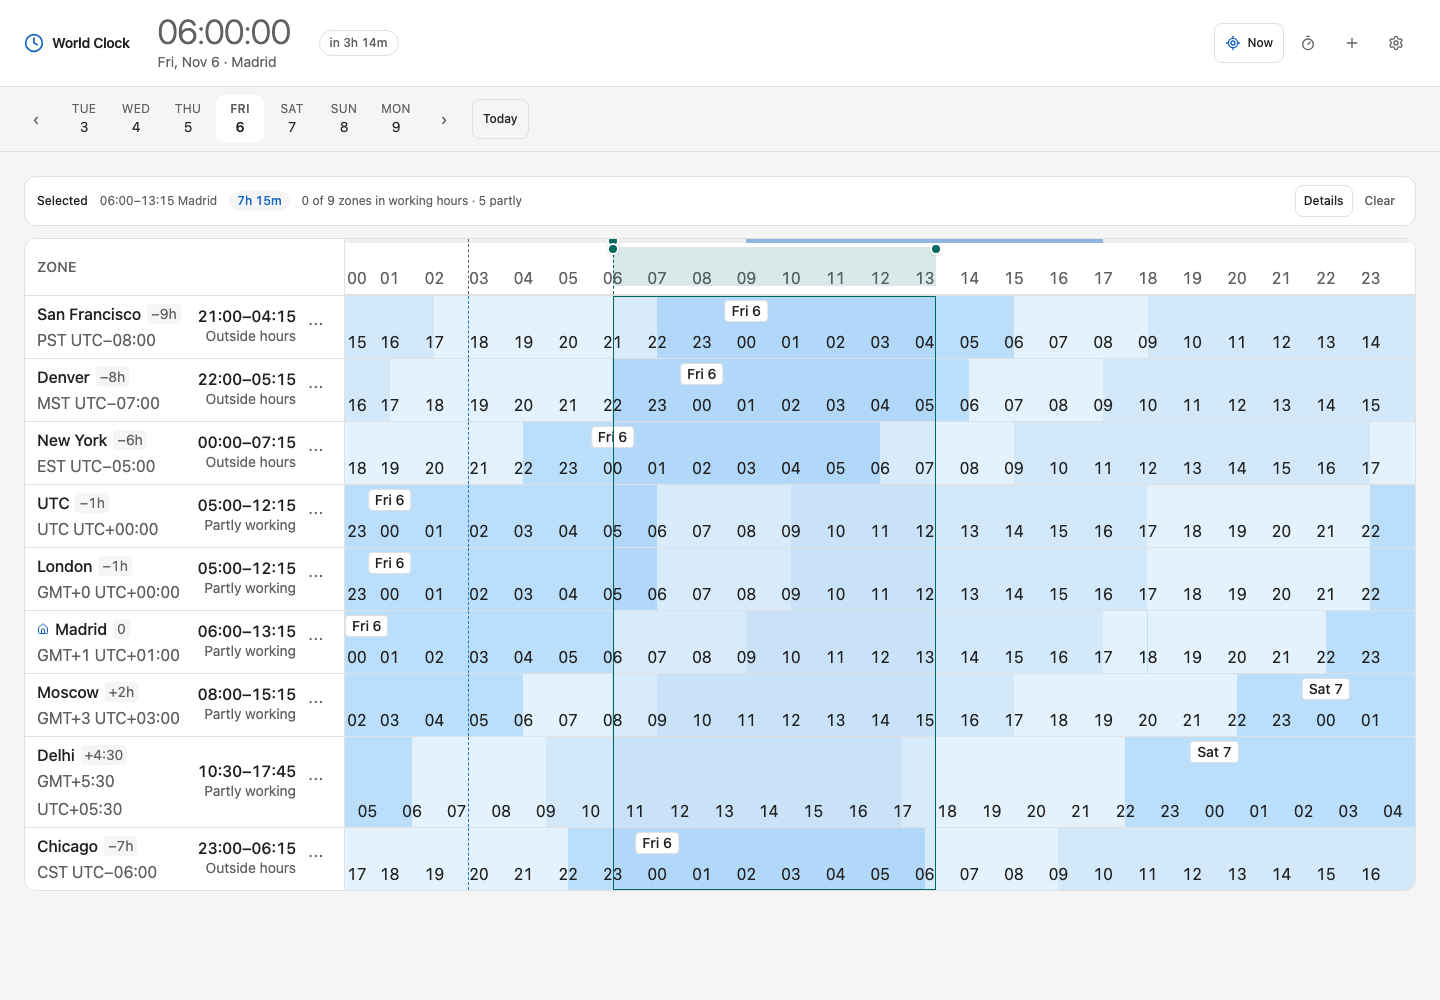
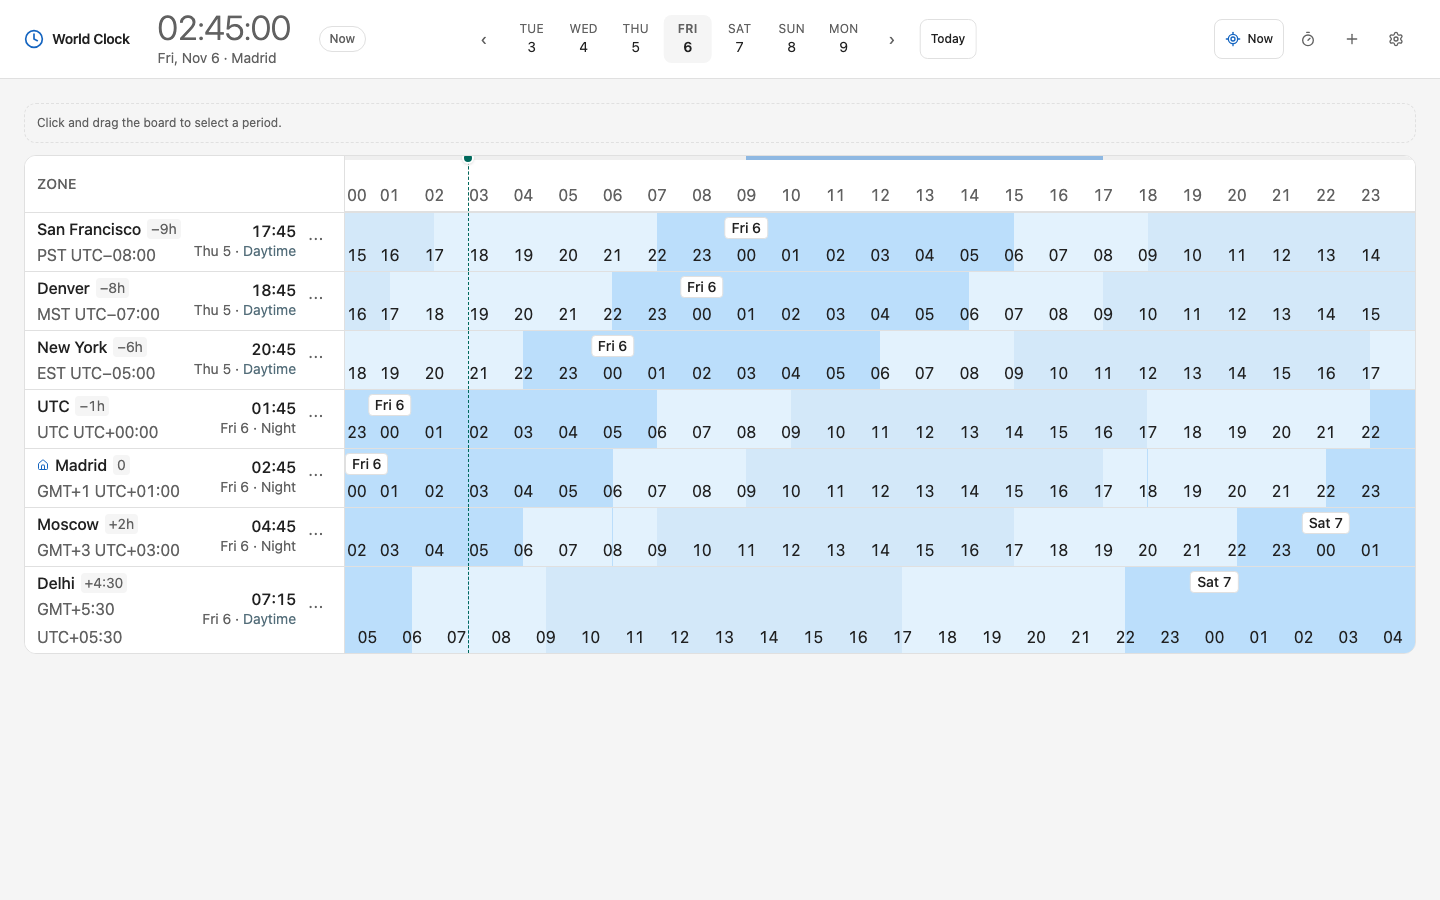
feat: streamline defaults, header, and zone rows
Seed seven zones without London or Chicago and migrate untouched legacy defaults. Move the day picker into the centered header slot on wide screens and wrap it below the controls on narrow screens. Compact zone rows by merging date and status on one line and tightening padding.

diff --git a/src/lib/settings/storage.test.ts b/src/lib/settings/storage.test.ts
@@ -81,3 +81,48 @@ it('swallows blocked writes and reports storage unavailable', () => {
   expect(storageAvailable()).toBe(false);
   set.mockRestore();
 });
+
+it('retires London and Chicago from untouched legacy defaults', () => {
+  const settings = createDefaultSettings(browserZone);
+  settings.zones = [
+    { timeZone: 'America/Los_Angeles', label: 'San Francisco' },
+    { timeZone: 'America/Denver', label: 'Denver' },
+    { timeZone: 'America/New_York', label: 'New York' },
+    { timeZone: 'UTC', label: 'UTC' },
+    { timeZone: 'Europe/London', label: 'London' },
+    { timeZone: 'Europe/Madrid', label: 'Madrid' },
+    { timeZone: 'Europe/Moscow', label: 'Moscow' },
+    { timeZone: 'Asia/Kolkata', label: 'Delhi' },
+    { timeZone: 'America/Chicago', label: 'Chicago' },
+  ];
+  saveSettings(settings);
+  const result = loadSettings(browserZone);
+  expect(result.source).toBe('recovered');
+  expect(result.settings.zones.map((zone) => zone.timeZone)).toEqual([
+    'America/Los_Angeles',
+    'America/Denver',
+    'America/New_York',
+    'UTC',
+    'Europe/Madrid',
+    'Europe/Moscow',
+    'Asia/Kolkata',
+  ]);
+});
+
+it('keeps legacy defaults when they were customized', () => {
+  const settings = createDefaultSettings(browserZone);
+  settings.zones = [
+    { timeZone: 'America/Los_Angeles', label: 'San Francisco' },
+    { timeZone: 'America/Denver', label: 'Denver' },
+    { timeZone: 'America/New_York', label: 'New York' },
+    { timeZone: 'UTC', label: 'UTC' },
+    { timeZone: 'Europe/London', label: 'London' },
+    { timeZone: 'Europe/Madrid', label: 'Madrid' },
+    { timeZone: 'Europe/Moscow', label: 'Moscow' },
+    { timeZone: 'Asia/Kolkata', label: 'Delhi' },
+    { timeZone: 'America/Chicago', label: 'Chicago HQ' },
+  ];
+  saveSettings(settings);
+  const result = loadSettings(browserZone);
+  expect(result.settings.zones).toHaveLength(9);
+});

diff --git a/src/lib/components/Header.svelte b/src/lib/components/Header.svelte
@@ -2,6 +2,7 @@
   import { Clock, LocateFixed, Plus, Settings, Timer } from '@lucide/svelte';
   import { formatRelative } from '$lib/time/format';
   import type { InstantMs, TimeFormat, ZoneId } from '$lib/time/types';
+  import type { Snippet } from 'svelte';
   import FocusReadout from './FocusReadout.svelte';
   import IconButton from './primitives/IconButton.svelte';
 
@@ -17,6 +18,7 @@
     onOpenDuration,
     onOpenAddZone,
     onOpenSettings,
+    children,
   }: {
     focusMs: InstantMs;
     nowMs: InstantMs;
@@ -29,15 +31,16 @@
     onOpenDuration: () => void;
     onOpenAddZone: () => void;
     onOpenSettings: () => void;
+    children?: Snippet;
   } = $props();
 
   const relative = $derived(followNow ? 'Now' : formatRelative(focusMs - nowMs));
 </script>
 
 <header
-  class="border-border bg-surface-raised flex flex-wrap items-center justify-between gap-x-4 gap-y-3 border-b px-4 py-3 sm:px-6"
+  class="border-border bg-surface-raised relative flex flex-wrap items-center gap-x-4 gap-y-2 border-b px-4 py-2 sm:px-6"
 >
-  <div class="flex min-w-0 items-center gap-4 sm:gap-6">
+  <div class="flex min-w-0 shrink-0 items-center gap-4 sm:gap-6">
     <div class="text-text flex items-center gap-2 text-sm font-semibold tracking-tight">
       <Clock class="text-accent-text size-5" aria-hidden="true" />
       <h1 class="sr-only sm:not-sr-only">World Clock</h1>
@@ -53,7 +56,15 @@
     </span>
   </div>
 
-  <div class="flex items-center gap-1">
+  {#if children}
+    <div
+      class="order-last w-full sm:order-none sm:mx-auto sm:w-auto xl:absolute xl:top-1/2 xl:left-1/2 xl:mx-0 xl:-translate-x-1/2 xl:-translate-y-1/2"
+    >
+      {@render children()}
+    </div>
+  {/if}
+
+  <div class="ml-auto flex shrink-0 items-center gap-1">
     <button
       type="button"
       onclick={onNow}

diff --git a/src/lib/settings/defaults.ts b/src/lib/settings/defaults.ts
@@ -6,6 +6,21 @@ export const DEFAULT_ZONE_IDS = [
   'America/Denver',
   'America/New_York',
   'UTC',
+  'Europe/Madrid',
+  'Europe/Moscow',
+  'Asia/Kolkata',
+] as const;
+
+const DEFAULT_LABELS: Record<string, string> = {
+  'America/Los_Angeles': 'San Francisco',
+  'Asia/Kolkata': 'Delhi',
+};
+
+const LEGACY_DEFAULT_ZONE_IDS = [
+  'America/Los_Angeles',
+  'America/Denver',
+  'America/New_York',
+  'UTC',
   'Europe/London',
   'Europe/Madrid',
   'Europe/Moscow',
@@ -13,10 +28,30 @@ export const DEFAULT_ZONE_IDS = [
   'America/Chicago',
 ] as const;
 
-const DEFAULT_LABELS: Record<string, string> = {
-  'America/Los_Angeles': 'San Francisco',
-  'Asia/Kolkata': 'Delhi',
-};
+const RETIRED_DEFAULT_ZONE_IDS = new Set(['Europe/London', 'America/Chicago']);
+
+function defaultZoneLabel(timeZone: string): string {
+  return DEFAULT_LABELS[timeZone] ?? defaultLabel(timeZone);
+}
+
+export function retireLegacyDefaultZones(settings: Settings): Settings {
+  if (RETIRED_DEFAULT_ZONE_IDS.has(settings.homeZone)) return settings;
+
+  const legacy = new Set<string>(LEGACY_DEFAULT_ZONE_IDS);
+  const ids = new Set(settings.zones.map((zone) => zone.timeZone));
+  if (!LEGACY_DEFAULT_ZONE_IDS.every((id) => ids.has(id))) return settings;
+
+  const extra = settings.zones.filter((zone) => !legacy.has(zone.timeZone));
+  if (extra.length > 1 || (extra[0] && extra[0].timeZone !== settings.homeZone)) return settings;
+  if (!settings.zones.every((zone) => zone.label === defaultZoneLabel(zone.timeZone))) {
+    return settings;
+  }
+
+  return {
+    ...settings,
+    zones: settings.zones.filter((zone) => !RETIRED_DEFAULT_ZONE_IDS.has(zone.timeZone)),
+  };
+}
 
 export function seedZones(homeZone: string): ZoneSetting[] {
   const ids: string[] = [...DEFAULT_ZONE_IDS];

diff --git a/src/lib/components/ZoneRow.svelte b/src/lib/components/ZoneRow.svelte
@@ -95,7 +95,7 @@
 >
   <div
     role="gridcell"
-    class="border-border bg-surface-raised sticky left-0 z-20 flex w-[120px] shrink-0 flex-wrap content-center items-center justify-between gap-x-2 gap-y-0.5 border-r px-2 py-1.5 sm:w-[320px] sm:flex-nowrap sm:px-3"
+    class="border-border bg-surface-raised sticky left-0 z-20 flex w-[120px] shrink-0 flex-wrap content-center items-center justify-between gap-x-2 gap-y-0.5 border-r px-2 py-1 sm:w-[320px] sm:flex-nowrap sm:px-3"
     title={`${model.timeZone} · ${formatUtcOffset(model.offsetMinutes)}`}
   >
     <div class="w-full min-w-0 sm:w-auto sm:flex-1">
@@ -145,8 +145,11 @@
           <div class="text-text text-base leading-none font-medium tabular-nums max-sm:basis-full">
             {model.focusedTime}
           </div>
-          <div class="text-muted mt-0.5 text-xs max-sm:mt-0 sm:text-sm">{model.focusedDate}</div>
-          <div class={`mt-0.5 text-xs max-sm:mt-0 sm:text-sm ${statusClass}`}>{statusLabel}</div>
+          <div class="mt-0.5 flex items-baseline gap-1 text-xs max-sm:mt-0 sm:text-sm">
+            <span class="text-muted">{model.focusedDate}</span>
+            <span class="text-muted">·</span>
+            <span class={statusClass}>{statusLabel}</span>
+          </div>
         {/if}
       </div>
 

diff --git a/src/lib/components/DayStrip.svelte b/src/lib/components/DayStrip.svelte
@@ -8,12 +8,14 @@
     onSelectDate,
     onShiftDay,
     onToday,
+    inline = false,
   }: {
     viewDate: DateString;
     homeZone: ZoneId;
     onSelectDate: (date: DateString) => void;
     onShiftDay: (days: number) => void;
     onToday: () => void;
+    inline?: boolean;
   } = $props();
 
   const days = $derived(Array.from({ length: 7 }, (_, index) => addDays(viewDate, index - 3)));
@@ -33,7 +35,9 @@
 <nav
   aria-label="Days"
   title={`Dates in ${homeZone}`}
-  class="border-border bg-surface flex items-center gap-1 overflow-x-auto border-b px-2 py-2 sm:px-4"
+  class={inline
+    ? 'flex items-center gap-1 overflow-x-auto'
+    : 'border-border bg-surface flex items-center gap-1 overflow-x-auto border-b px-2 py-2 sm:px-4'}
 >
   <button
     type="button"
@@ -56,7 +60,7 @@
       }}
       class="hover:bg-surface-raised flex min-h-10 min-w-12 shrink-0 flex-col items-center rounded-lg px-2 py-1.5 text-xs transition-colors"
       class:text-accent-text={date === viewDate}
-      class:bg-surface-raised={date === viewDate}
+      class:bg-surface={date === viewDate}
       class:font-semibold={date === viewDate}
     >
       <span class="text-muted text-xs tracking-wide uppercase">{weekdayShort(date)}</span>

diff --git a/src/lib/settings/schema.test.ts b/src/lib/settings/schema.test.ts
@@ -13,11 +13,9 @@ describe('defaults', () => {
       { timeZone: 'America/Denver', label: 'Denver' },
       { timeZone: 'America/New_York', label: 'New York' },
       { timeZone: 'UTC', label: 'UTC' },
-      { timeZone: 'Europe/London', label: 'London' },
       { timeZone: 'Europe/Madrid', label: 'Madrid' },
       { timeZone: 'Europe/Moscow', label: 'Moscow' },
       { timeZone: 'Asia/Kolkata', label: 'Delhi' },
-      { timeZone: 'America/Chicago', label: 'Chicago' },
     ]);
   });
 
@@ -28,17 +26,15 @@ describe('defaults', () => {
       'America/Denver',
       'America/New_York',
       'UTC',
-      'Europe/London',
       'Europe/Madrid',
       'Europe/Moscow',
       'Asia/Kolkata',
-      'America/Chicago',
     ]);
   });
 
   it('prepends an unfamiliar browser home zone', () => {
     const zones = seedZones('Europe/Berlin');
-    expect(zones).toHaveLength(10);
+    expect(zones).toHaveLength(8);
     expect(zones[0]).toEqual({ timeZone: 'Europe/Berlin', label: 'Berlin' });
   });
 });

diff --git a/e2e/world-clock.spec.ts b/e2e/world-clock.spec.ts
@@ -175,10 +175,10 @@ test('zone menu renders above every row and inside the viewport', async ({ page 
 
 test('zone menu stays inside the viewport on the last row', async ({ page }) => {
   await page
-    .getByTestId('row-America/Chicago')
-    .getByRole('button', { name: /actions for chicago/i })
+    .getByTestId('row-Asia/Kolkata')
+    .getByRole('button', { name: /actions for delhi/i })
     .click();
-  const menu = page.getByRole('menu', { name: /actions for chicago/i });
+  const menu = page.getByRole('menu', { name: /actions for delhi/i });
   await expect(menu).toBeVisible();
   const rect = await menu.evaluate((node) => {
     const box = node.getBoundingClientRect();
@@ -218,7 +218,7 @@ test('zone menu works on a narrow viewport and dismisses cleanly', async ({ page
 
   await trigger.click();
   await expect(menu).toBeVisible();
-  await page.mouse.click(360, 80);
+  await page.mouse.click(10, 300);
   await expect(menu).toBeHidden();
 
   await trigger.click();

diff --git a/src/App.svelte b/src/App.svelte
@@ -207,21 +207,22 @@
     onOpenSettings={() => {
       settingsOpen = true;
     }}
-  />
+  >
+    <DayStrip
+      viewDate={boardStore.viewDate}
+      homeZone={settingsStore.value.homeZone}
+      onSelectDate={selectDate}
+      onShiftDay={shiftDay}
+      onToday={goToday}
+      inline
+    />
+  </Header>
 
   {#if !persistenceAvailable}
     <div role="status" class="border-warning/30 bg-warning/10 text-warning px-4 py-2 text-xs">
       Settings can't be saved in this browser. Changes last until you reload.
     </div>
   {/if}
-
-  <DayStrip
-    viewDate={boardStore.viewDate}
-    homeZone={settingsStore.value.homeZone}
-    onSelectDate={selectDate}
-    onShiftDay={shiftDay}
-    onToday={goToday}
-  />
 
   <main id="board" class="p-4 sm:p-6">
     {#if boardStore.range}

diff --git a/src/lib/settings/storage.ts b/src/lib/settings/storage.ts
@@ -1,4 +1,4 @@
-import { createDefaultSettings } from './defaults';
+import { createDefaultSettings, retireLegacyDefaultZones } from './defaults';
 import { parsePersisted } from './schema';
 import type { Settings, StorageLoadSource } from './types';
 
@@ -32,6 +32,11 @@ export function loadSettings(fallbackZone = browserZone()): {
   }
 
   const result = parsePersisted(parsed, fallbackZone);
+  const settings = retireLegacyDefaultZones(result.settings);
+  if (settings !== result.settings) {
+    saveSettings(settings);
+    return { settings, source: 'recovered' };
+  }
   return {
     settings: result.settings,
     source: result.changed ? 'recovered' : 'stored',

diff --git a/docs/architecture.md b/docs/architecture.md
@@ -9,10 +9,11 @@ persist in `localStorage`. There is no server, account, or sync.
 ```text
 App.svelte
 ├─ Header (focus readout, Now, Duration, Add zone, Settings)
-├─ DayStrip (seven-day window)
+├─ Header (brand, focus clock, inline day picker, actions)
 ├─ Board
 │  ├─ Ruler (hour scale, work strip, focus/now lines, range handles)
 │  └─ ZoneRow[] (local times, bands, labels, day/DST markers)
+├─ Board (zone rows, ruler, range)
 ├─ dialogs (add zone, set time, duration, settings, rename, shortcuts)
 └─ Toast
 ```
@@ -59,8 +60,9 @@ Three runes modules:
 Only the clock store reads `Date.now()`. `searchZones` also reads it for
 display-only offsets; callers can inject an instant.
 
-First run seeds San Francisco, Denver, New York, UTC, London, Madrid, Moscow,
-Delhi, and Chicago. The browser zone is home; if it is not in that list, it is
+First run seeds San Francisco, Denver, New York, UTC, Madrid, Moscow, and
+Delhi. Untouched legacy default lists drop London and Chicago on load;
+customized lists are preserved. The browser zone is home; if it is not in that list, it is
 prepended.
 
 ## Persistence

diff --git a/AGENTS.md b/AGENTS.md
@@ -68,6 +68,8 @@ docs/architecture.md  current design
 - Import overwrites only after confirmation. Export includes `version` and
   `exportedAt`.
 - Do not add a backend or sync without an explicit product decision.
+- Changing seeded zones requires a migration limited to untouched legacy
+  defaults; never remove zones from a customized list.
 
 ## UI and accessibility
 
@@ -89,6 +91,9 @@ docs/architecture.md  current design
 - Test with axe; do not introduce color-only status.
 - Keep every user-facing font size at 12px or larger; use the scale in
   [`docs/typography.md`](docs/typography.md). Do not add arbitrary px sizes.
+- The day picker lives in the header on wide screens and wraps below the
+  controls on narrow screens. Keep it centered with `mx-auto`/absolute
+  positioning; do not restore a separate full-width strip.
 - Mobile inputs and selects are 16px and at least 44px tall to avoid iOS zoom.
 - Keep primary pointer targets at least 24×24; aim for 32px or more.
 - Respect `prefers-reduced-motion`.
